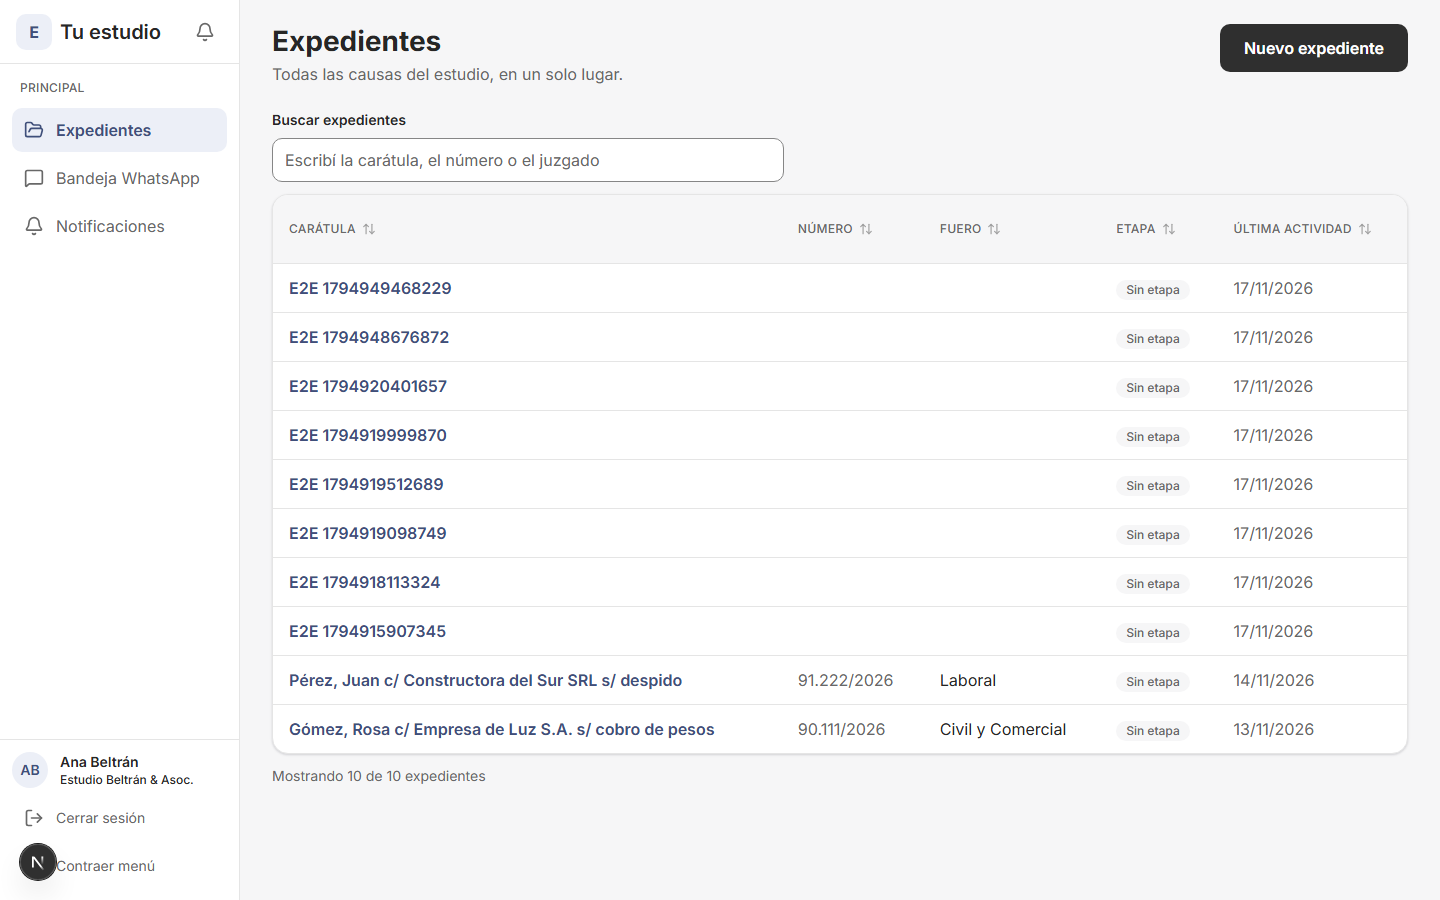
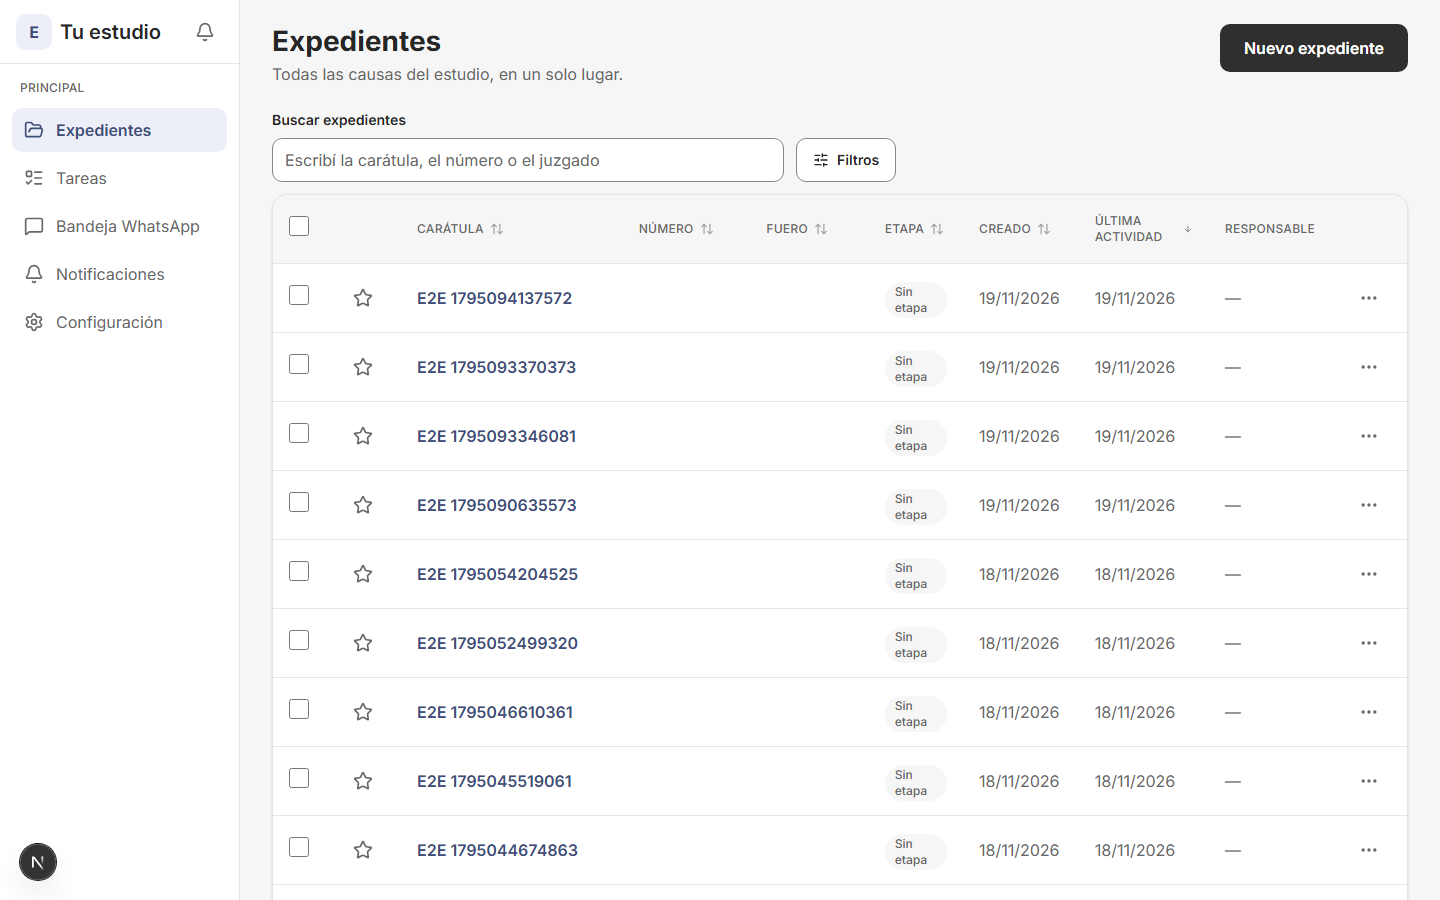
docs(replica): refresh S03/S08/S21 rows and m2-quick-wins task doc

diff --git a/odd/tasks/m2-quick-wins.md b/odd/tasks/m2-quick-wins.md
@@ -1,0 +1,67 @@
+# M2 quick wins — parciales chicos (wizard 4-5, tabs S08, bell dropdown)
+
+Objective: close three shipped-as-partial features from the parity matrix. Branch: `master` (direct commits + push per unit, no PR chain). Test runner: `npm run test` (vitest), `npx playwright test` (e2e), `npm run lint`, `npm run build`.
+
+## Specs
+
+Scope source: `replica/features.csv` (verbatim rows) + `replica/recon.md` + `replica/clone-screens/`.
+
+### S1 — Onboarding wizard steps 4-5
+
+Verbatim features.csv row:
+
+> Five-step onboarding wizard (jurisdictions / profile / studio),auth,must,yes,partial,S03; creates the studio right after sign-up | M1: steps 1-3 of 5 (jurisdictions / profile / studio); steps 4-5 arrive in M2
+
+Acceptance criteria:
+- The onboarding wizard runs all five steps; steps 4-5 are implemented with the same data layer and validation style as steps 1-3.
+- Completing the wizard still creates the studio right after sign-up (existing behavior preserved; one regression test for steps 1-3 path).
+- The parity row in `replica/features.csv` is updated by the orchestrator after the unit lands (writers do not edit `features.csv`).
+- If the exact content of steps 4-5 is not derivable from `replica/recon.md`, `replica/clone-screens/`, or existing code, STOP and report back instead of inventing requirements.
+
+### S2 — Case detail hub: remaining tabs
+
+Verbatim features.csv row:
+
+> Case detail hub with tabs,expedientes,must,yes,partial,S08 | Resumen + Pruebas tabs with ?tab= deep link (F02-E7 refresh keeps it); remaining 8 tabs = M2
+
+Acceptance criteria:
+- The remaining tabs of the case detail hub ship, each reachable via the existing `?tab=` deep link and keeping it stable across refresh (existing F02-E7 behavior preserved with a regression test).
+- Tabs reuse the existing data drivers (`lib/data/*` Supabase drivers) and the existing UI primitives (`components/ui/*`); no new data-access pattern.
+- Split into two tasks (T2a / T2b) if the forecast exceeds ~400 authored changed lines.
+- If a tab's required content is not derivable from `replica/recon.md` / `replica/clone-screens/`, STOP and report instead of inventing requirements.
+
+### S3 — Bell dropdown panel
+
+Verbatim features.csv row:
+
+> In-app notification panel and page,notificaciones,must,yes,partial,S21 | page + header bell + read-on-click deep links + mark-all + search + estado/categoria filters + Cargar mas (20/page) + Preferencias modal shipped (e2e m2-notificaciones); pending: bell dropdown panel with Todas/No leidas tabs
+
+Acceptance criteria:
+- The header bell opens a dropdown panel with `Todas` / `No leidas` tabs, fed by the existing notifications data layer (same driver as the notificaciones page).
+- Read-on-click deep links and unread badge keep working through the dropdown (regression coverage on `components/shell/notification-bell.tsx` behavior).
+- The notification preference gate for task alerts (ed451a1) is not bypassed: dropdown reads the same source the page reads.
+
+## Tasks
+
+| ID | S# | Route | Status | Commit |
+|----|----|-------|--------|--------|
+| T1 | S1 | delegated (writer, parallel unit) | done (parent edits applied: screenshots.spec.ts:65, features.csv S03, parity.md) | 62af100 |
+| T2 | S2 | delegated (writer, parallel unit) | done batch 1 — Tareas tab shipped; 6 tabs blocked (see T2b) | 5fe3770 |
+| T2b | S2 | deferred (needs surface extension: lib/data/*, lib/supabase/*, lib/types.ts) | pending — Actuaciones first (table exists, content derivable); Audiencias/Partes/Finanzas thin evidence; Agenda/Documentos need parent layers | |
+| T3 | S3 | delegated (writer, parallel unit) | done (parent edits applied: f03-prueba.spec.ts:119 role fix, features.csv S21, parity.md rows 15/F06) | d0b7d7d |
+
+Git policy: writers never commit; the parent owns git, runs the seam suite, commits one unit at a time (staging only that unit's paths) and pushes per unit — accepted cadence.
+
+## Log
+
+L1 (2026-11-19, user verbatim): "peter, ya desplegue al proyecto abogapp en vercel, y funcionando. seguimos donde nos quedamos ayer?"
+
+L2 (2026-11-19, user verbatim): "en ese orden" — answering the direction menu (parciales chicos -> área grande nueva -> M3 jobs+email -> producción primero). This document covers only batch 1: parciales chicos.
+
+L3 (2026-11-19): T1 done — steps 4-5 = recon's pitch + security screens (flow positions 2 and 4; M1 data steps renumbered to 1/3/5), studio still created right after sign-up; 348 lines; RED/GREEN observed; e2e onboarding.spec.ts 15 passed. Out-of-surface fix applied by parent: e2e/screenshots.spec.ts:65 "Paso 1 de 3" -> "Paso 1 de 5". features.csv S03 + parity.md:58 updated by parent.
+
+L4 (2026-11-19): T2 batch 1 done — features.csv S08 row was stale (Movimientos already shipped), so 7 tabs remained; only Tareas could ship without a new data layer (794 lines, s08-tabs e2e 14 passed, full vitest 286 passed, tsc+eslint clean). Tab vocabulary extracted to case-tabs.ts (unit-testable ?tab= contract). 6 tabs pending as T2b, all blocked on missing lib/data drivers (tables already exist in migrations). Tab-strip got overflow-x-auto (421px needed at 390px viewport). features.csv S08 + parity.md:61 updated by parent. Debt noticed: parity.md must-haves table is stale overall (still "3 of 16", favorites "no") — regenerate via replica-diff skill later.
+
+L5 (2026-11-19): First delegation attempt of the 3 writers failed with runtime DNS error (getaddrinfo ENOTFOUND opencode.ai); relaunch succeeded. T3 (bell dropdown) running in background.
+
+L6 (2026-11-19): T3 done (1,245 changed lines; unit 11/11, bell e2e 15 passed, f06 17 passed) — bell trigger Link -> disclosure button per components.md keyboard spec; out-of-surface fix applied by parent (f03-prueba.spec.ts:119 role=link -> role=button). Seam suite all-green: vitest 297/297, lint clean, next build 19/19 pages, playwright 107 passed / 1 skipped, zero flakes. Commits: 62af100 (T1), 5fe3770 (T2), d0b7d7d (T3), docs commit this one. Regenerated clone-screens PNGs (8, from screenshots.spec runs) ride in the docs commit. Remaining debt: T2b data-layer tabs; parity.md full regeneration via replica-diff skill (must-haves table stale); panel screenshot capture for clone-screens; badge live-region + per-row aria-pressed from components.md noted by T3 as not-built gaps.

diff --git a/replica/parity.md b/replica/parity.md
@@ -55,10 +55,10 @@ of `features.csv` had been stale since M1 T9; every one of the 70 rows was re-wa
 | # | Must-have | Status | Evidence |
 | --- | --- | --- | --- |
 | 1 | Email + password sign-up and login | **yes** | AU01/AU02 green (wrong password, empty fields, logout) |
-| 2 | Five-step onboarding wizard | **partial** | `onboarding-wizard.tsx`: "Paso {n} de 3" — steps 4–5 = M2 |
+| 2 | Five-step onboarding wizard | **partial** | `onboarding-wizard.tsx`: "Paso {n} de 5" — 5 steps shipped (M2); pending: jurisdiction search, logo/photo upload, resume, skip-last, invitee path |
 | 3 | Manual case creation | **yes** | F03-H1 green: form → DB row |
 | 4 | Expedientes list with search + filters | **partial** | search accent/typo-tolerant (BUG-003 fix, F02-E3); Filtros panel/favorites/archive = M2 |
-| 5 | Case detail hub with tabs | **partial** | 2 of 10 tabs (`resumen`, `pruebas`) + `?tab=` (F02-E7) |
+| 5 | Case detail hub with tabs | **partial** | 4 of 10 tabs (`resumen`, `movimientos`, `tareas`, `pruebas`) + `?tab=` (F02-E7, s08-tabs) |
 | 6 | Favorites / archive / soft-delete | **no** | no row menu or bulk bar in `expedientes-view.tsx` |
 | 7 | Manual movement log (S09) | **no** | no route, no model usage |
 | 8 | Pruebas tracking (six evidence types) | **partial** | create + plazo green (F03-H1); per-type estados/person picker/historial = M2 |
@@ -68,7 +68,7 @@ of `features.csv` had been stale since M1 T9; every one of the 70 rows was re-wa
 | 12 | Plazo reminder notifications (day-before/day-of) | **no** | no jobs; only the creation-time in-app notification (F03-H1) |
 | 13 | Task creation and assignment | **no** | no `/tareas` route |
 | 14 | Task states (five defaults) | **no** | — |
-| 15 | In-app notification panel and page | **partial** | page + bell + read-on-click deep links + mark-all green (F06-H1); bell dropdown, category filter, pagination = M2 |
+| 15 | In-app notification panel and page | **yes** | page + bell dropdown (Todas/No leidas, bell.spec.ts) + read-on-click deep links + mark-all green (F06-H1); category filter, search, pagination shipped (m2-notificaciones) |
 | 16 | Daily email digest Mon–Fri 08:00 | **no** | no Resend/jobs yet |
 
 Rows where `original = no` (WhatsApp module — our own scope) are excluded from the score:
@@ -140,7 +140,7 @@ count), so 26.5 reflects genuine structural divergence, not styling.
 | **F03** set a procedural deadline | ~6 clicks (list → row → Pruebas → Agregar Prueba → tipo + Continuar → Crear) | **4 clicks** from the list row: row → Pruebas → Agregar prueba → Guardar (F03-H1); the type picker is a field inside the single form, no Continuar step | **keep** — one step fewer than the original, same engine guarantees (DB trigger + feriados/feria) |
 | **F04** assign a task | ~3 clicks (Tareas → Nueva tarea → Crear) | **not built** (tareas rows = `no`) | **fix** M2 |
 | **F05** draft an escrito with AI | ~7 clicks, gated Pro/Max (trial 5 consultas) | **not built** (asistente-ia rows = `no`) | **fix** M2+ — out of M1 scope |
-| **F06** digest & notifications | bell (1) → panel opens → unread item (2) → reading; plus e-mail "Resumen diario" | bell is a direct **link** to the page (1) → notification deep-links to the case `?tab=` (2) — F06-E14; **no panel, no digest** | **keep** the direct link (fewer clicks than bell → panel → item); **fix** M2: bell dropdown panel + daily digest + 07:00 reminder jobs |
+| **F06** digest & notifications | bell (1) → panel opens → unread item (2) → reading; plus e-mail "Resumen diario" | bell (1) → dropdown panel with Todas/No leidas (2) → notification deep-links to the case `?tab=` — F06-E14 + bell.spec; **no e-mail digest** | **keep** the panel; **fix** M3: daily digest + 07:00 reminder jobs (Resend) |
 | **WA intake** (our own scope) | n/a — Veredicta has no WhatsApp module | inbox list + status filters + states green (WA02); webhook handshake, `X-Hub-Signature-256`, exactly-once storage, local bot green (WA01/WA03) | **keep**; M3: Meta Graph outbound, 24 h window, appointment booking |
 
 ### Error behaviour
